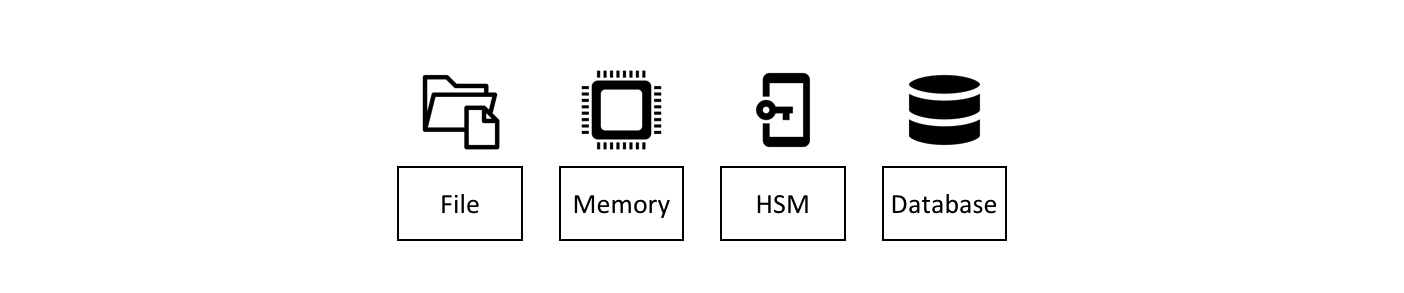
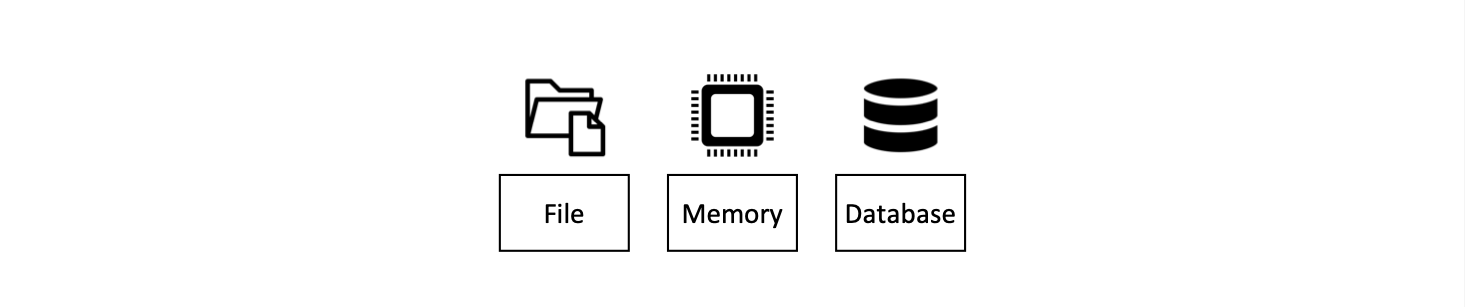
FAB-17287: Update wallet description
- Overview of Wallets in the Developing Applications section
updated to reflect the new Wallet API in v2.0
- Links updated to point to the new documentation location

diff --git a/docs/source/developapps/wallet.md b/docs/source/developapps/wallet.md
@@ -72,17 +72,12 @@ See how:
 There are different types of wallets according to where they store their
 identities:
 
-![wallet.types](./develop.diagram.12.png) *The four different types of wallet:
-File  system, In-memory, Hardware Security Module (HSM) and CouchDB.*
+![wallet.types](./develop.diagram.12.png) *The three different types of wallet storage:
+File system, In-memory and CouchDB.*
 
-* **FileSystem**: This is the most common place to store wallets; file systems
+* **File system**: This is the most common place to store wallets; file systems
   are pervasive, easy to understand, and can be network mounted. They are a good
   default choice for wallets.
-
-  Use the `FileSystemWallet`
-  [class](https://fabric-sdk-node.github.io/master/module-fabric-network.FileSystemWallet.html)
-  to manage file system wallets.
-
 
 * **In-memory**: A wallet in application storage. Use this type of wallet when
   your application is running in a constrained environment without access to a
@@ -90,33 +85,30 @@ File  system, In-memory, Hardware Security Module (HSM) and CouchDB.*
   wallet is volatile; identities will be lost after the application ends
   normally or crashes.
 
-  Use the `InMemoryWallet`
-  [class](https://fabric-sdk-node.github.io/master/module-fabric-network.InMemoryWallet.html)
-  to manage in-memory wallets.
-
-
-* **Hardware Security Module**: A wallet stored in an
-  [HSM](https://en.wikipedia.org/wiki/Hardware_security_module). This
-  ultra-secure, tamper-proof device stores digital identity information,
-  particularly private keys. HSMs can be locally attached to your computer or
-  network accessible. Most HSMs provide the ability to perform on-board
-  encryption with private keys, such that the private key never leave the HSM.
-
-  Currently you should use the `FileSystemWallet`
-  [class](https://fabric-sdk-node.github.io/master/module-fabric-network.FileSystemWallet.html)
-  in combination with the
-  [HSMWalletMixin](https://fabric-sdk-node.github.io/master/module-fabric-network.HSMWalletMixin.html)
-  class to manage HSM wallets.
-
-
-* **CouchDB**: A wallet stored in Couch DB. This is the rarest form of wallet
+* **CouchDB**: A wallet stored in CouchDB. This is the rarest form of wallet
   storage, but for those users who want to use the database back-up and restore
   mechanisms, CouchDB wallets can provide a useful option to simplify disaster
   recovery.
 
-  Use the `CouchDBWallet`
-  [class](https://fabric-sdk-node.github.io/master/module-fabric-network.CouchDBWallet.html)
-  to manage CouchDB wallets.
+Use factory functions provided by the `Wallets`
+[class](https://hyperledger.github.io/fabric-sdk-node/master/module-fabric-network.Wallets.html)
+to create wallets.
+
+### Hardware Security Module
+
+A Hardware Security Module (HSM) is an ultra-secure, tamper-proof device that
+stores digital identity information, particularly private keys. HSMs can be
+locally attached to your computer or network accessible. Most HSMs provide the
+ability to perform on-board encryption with private keys, such that the private
+keys never leave the HSM.
+
+An HSM can be used with any of the wallet types. In this case the certificate
+for an identity will be stored in the wallet and the private key will be stored
+in the HSM.
+
+To enable the use of HSM-managed identities, an `IdentityProvider` must be
+configured with the HSM connection information and registered with the wallet.
+For further details, refer to the [Using wallets to manage identities](https://hyperledger.github.io/fabric-sdk-node/master/tutorial-wallet.html) tutorial.
 
 ## Structure
 
@@ -134,21 +126,25 @@ There's a couple of key class methods that make it easy to manage wallets and
 identities:
 
 ```JavaScript
-const identity = X509WalletMixin.createIdentity('Org1MSP', certificate, key);
-
-await wallet.import(identityLabel, identity);
+const identity: X509Identity = {
+    credentials: {
+        certificate: certificatePEM,
+        privateKey: privateKeyPEM,
+    },
+    mspId: 'Org1MSP',
+    type: 'X.509',
+};
+await wallet.put(identityLabel, identity);
 ```
 
- See how the `X509WalletMixin.createIdentity()`
-[method](https://fabric-sdk-node.github.io/master/module-fabric-network.X509WalletMixin.html)
-creates an `identity` that has metadata `Org1MSP`, a `certificate` and a private
-`key`. See how `wallet.import()` adds this identity to the wallet with a
+See how an `identity` is created that has metadata `Org1MSP`, a `certificate` and
+a `privateKey`. See how `wallet.put()` adds this identity to the wallet with a
 particular `identityLabel`.
 
-The `Gateway` class only requires the `mspid` metadata to be set for an identity
--- `Org1MSP` in the above example. It *currently* uses this value to identify
-particular peers from a [connection profile](./connectionprofile.html), for
-example when a specific notification [strategy](./connectoptions.html) is
+The `Gateway` class only requires the `mspId` and `type` metadata to be set for
+an identity -- `Org1MSP` and `X.509` in the above example. It *currently* uses the
+MSP ID value to identify particular peers from a [connection profile](./connectionprofile.html),
+for example when a specific notification [strategy](./connectoptions.html) is
 requested. In the DigiBank gateway file `networkConnection.yaml`, see how
 `Org1MSP` notifications will be associated with `peer0.org1.example.com`:
 
@@ -168,10 +164,7 @@ the commercial paper sample:
 ```
 magnetocorp/identity/user/isabella/
                                   wallet/
-                                        User1@org1.example.com/
-                                                              User1@org.example.com
-                                                              c75bd6911aca8089...-priv
-                                                              c75bd6911aca8089...-pub
+                                        User1@org1.example.com.id
 ```
 
 You can examine these files, but as discussed, it's easier to use the SDK to
@@ -179,35 +172,41 @@ manipulate these data.
 
 ## Operations
 
-The different wallet classes are derived from a common
-[Wallet](https://fabric-sdk-node.github.io/master/module-fabric-network.Wallet.html)
-base class which provides a standard set of APIs to manage identities. It means
+The different wallet types all implement a common
+[Wallet](https://hyperledger.github.io/fabric-sdk-node/master/module-fabric-network.Wallet.html)
+interface which provides a standard set of APIs to manage identities. It means
 that applications can be made independent of the underlying wallet storage
 mechanism; for example, File system and HSM wallets are handled in a very
 similar way.
 
 ![wallet.operations](./develop.diagram.13.png) *Wallets follow a
-lifecycle: they can be created or opened, and identities can be read, added,
-deleted and exported.*
+lifecycle: they can be created or opened, and identities can be read, added and
+deleted.*
 
 An application can use a wallet according to a simple lifecycle. Wallets can be
-opened or created, and subsequently identities can be added, read, updated,
-deleted and exported. Spend a little time on the different `Wallet` methods in
-the
-[JSDOC](https://fabric-sdk-node.github.io/master/module-fabric-network.Wallet.html)
+opened or created, and subsequently identities can be added, updated, read and
+deleted. Spend a little time on the different `Wallet` methods in the
+[JSDoc](https://hyperledger.github.io/fabric-sdk-node/master/module-fabric-network.Wallet.html)
 to see how they work; the commercial paper tutorial provides a nice example in
 `addToWallet.js`:
 
 ```JavaScript
-const wallet = new FileSystemWallet('../identity/user/isabella/wallet');
+const wallet = await Wallets.newFileSystemWallet('../identity/user/isabella/wallet');
 
 const cert = fs.readFileSync(path.join(credPath, '.../User1@org1.example.com-cert.pem')).toString();
 const key = fs.readFileSync(path.join(credPath, '.../_sk')).toString();
 
 const identityLabel = 'User1@org1.example.com';
-const identity = X509WalletMixin.createIdentity('Org1MSP', cert, key);
+const identity = {
+    credentials: {
+        certificate: cert,
+        privateKey: key,
+    },
+    mspId: 'Org1MSP',
+    type: 'X.509',
+};
 
-await wallet.import(identityLabel, identity);
+await wallet.put(identityLabel, identity);
 ```
 
 Notice how:
@@ -217,10 +216,9 @@ Notice how:
 
 * a certificate `cert` and private `key` are loaded from the file system.
 
-* a new identity is created with `cert`, `key` and `Org1MSP` using
-  `X509WalletMixin.createIdentity()`.
+* a new X.509 identity is created with `cert`, `key` and `Org1MSP`.
 
-* the new identity is imported to the wallet with `wallet.import()` with a label
+* the new identity is added to the wallet with `wallet.put()` with a label
   `User1@org1.example.com`.
 
 That's everything you need to know about wallets. You've seen how they hold
